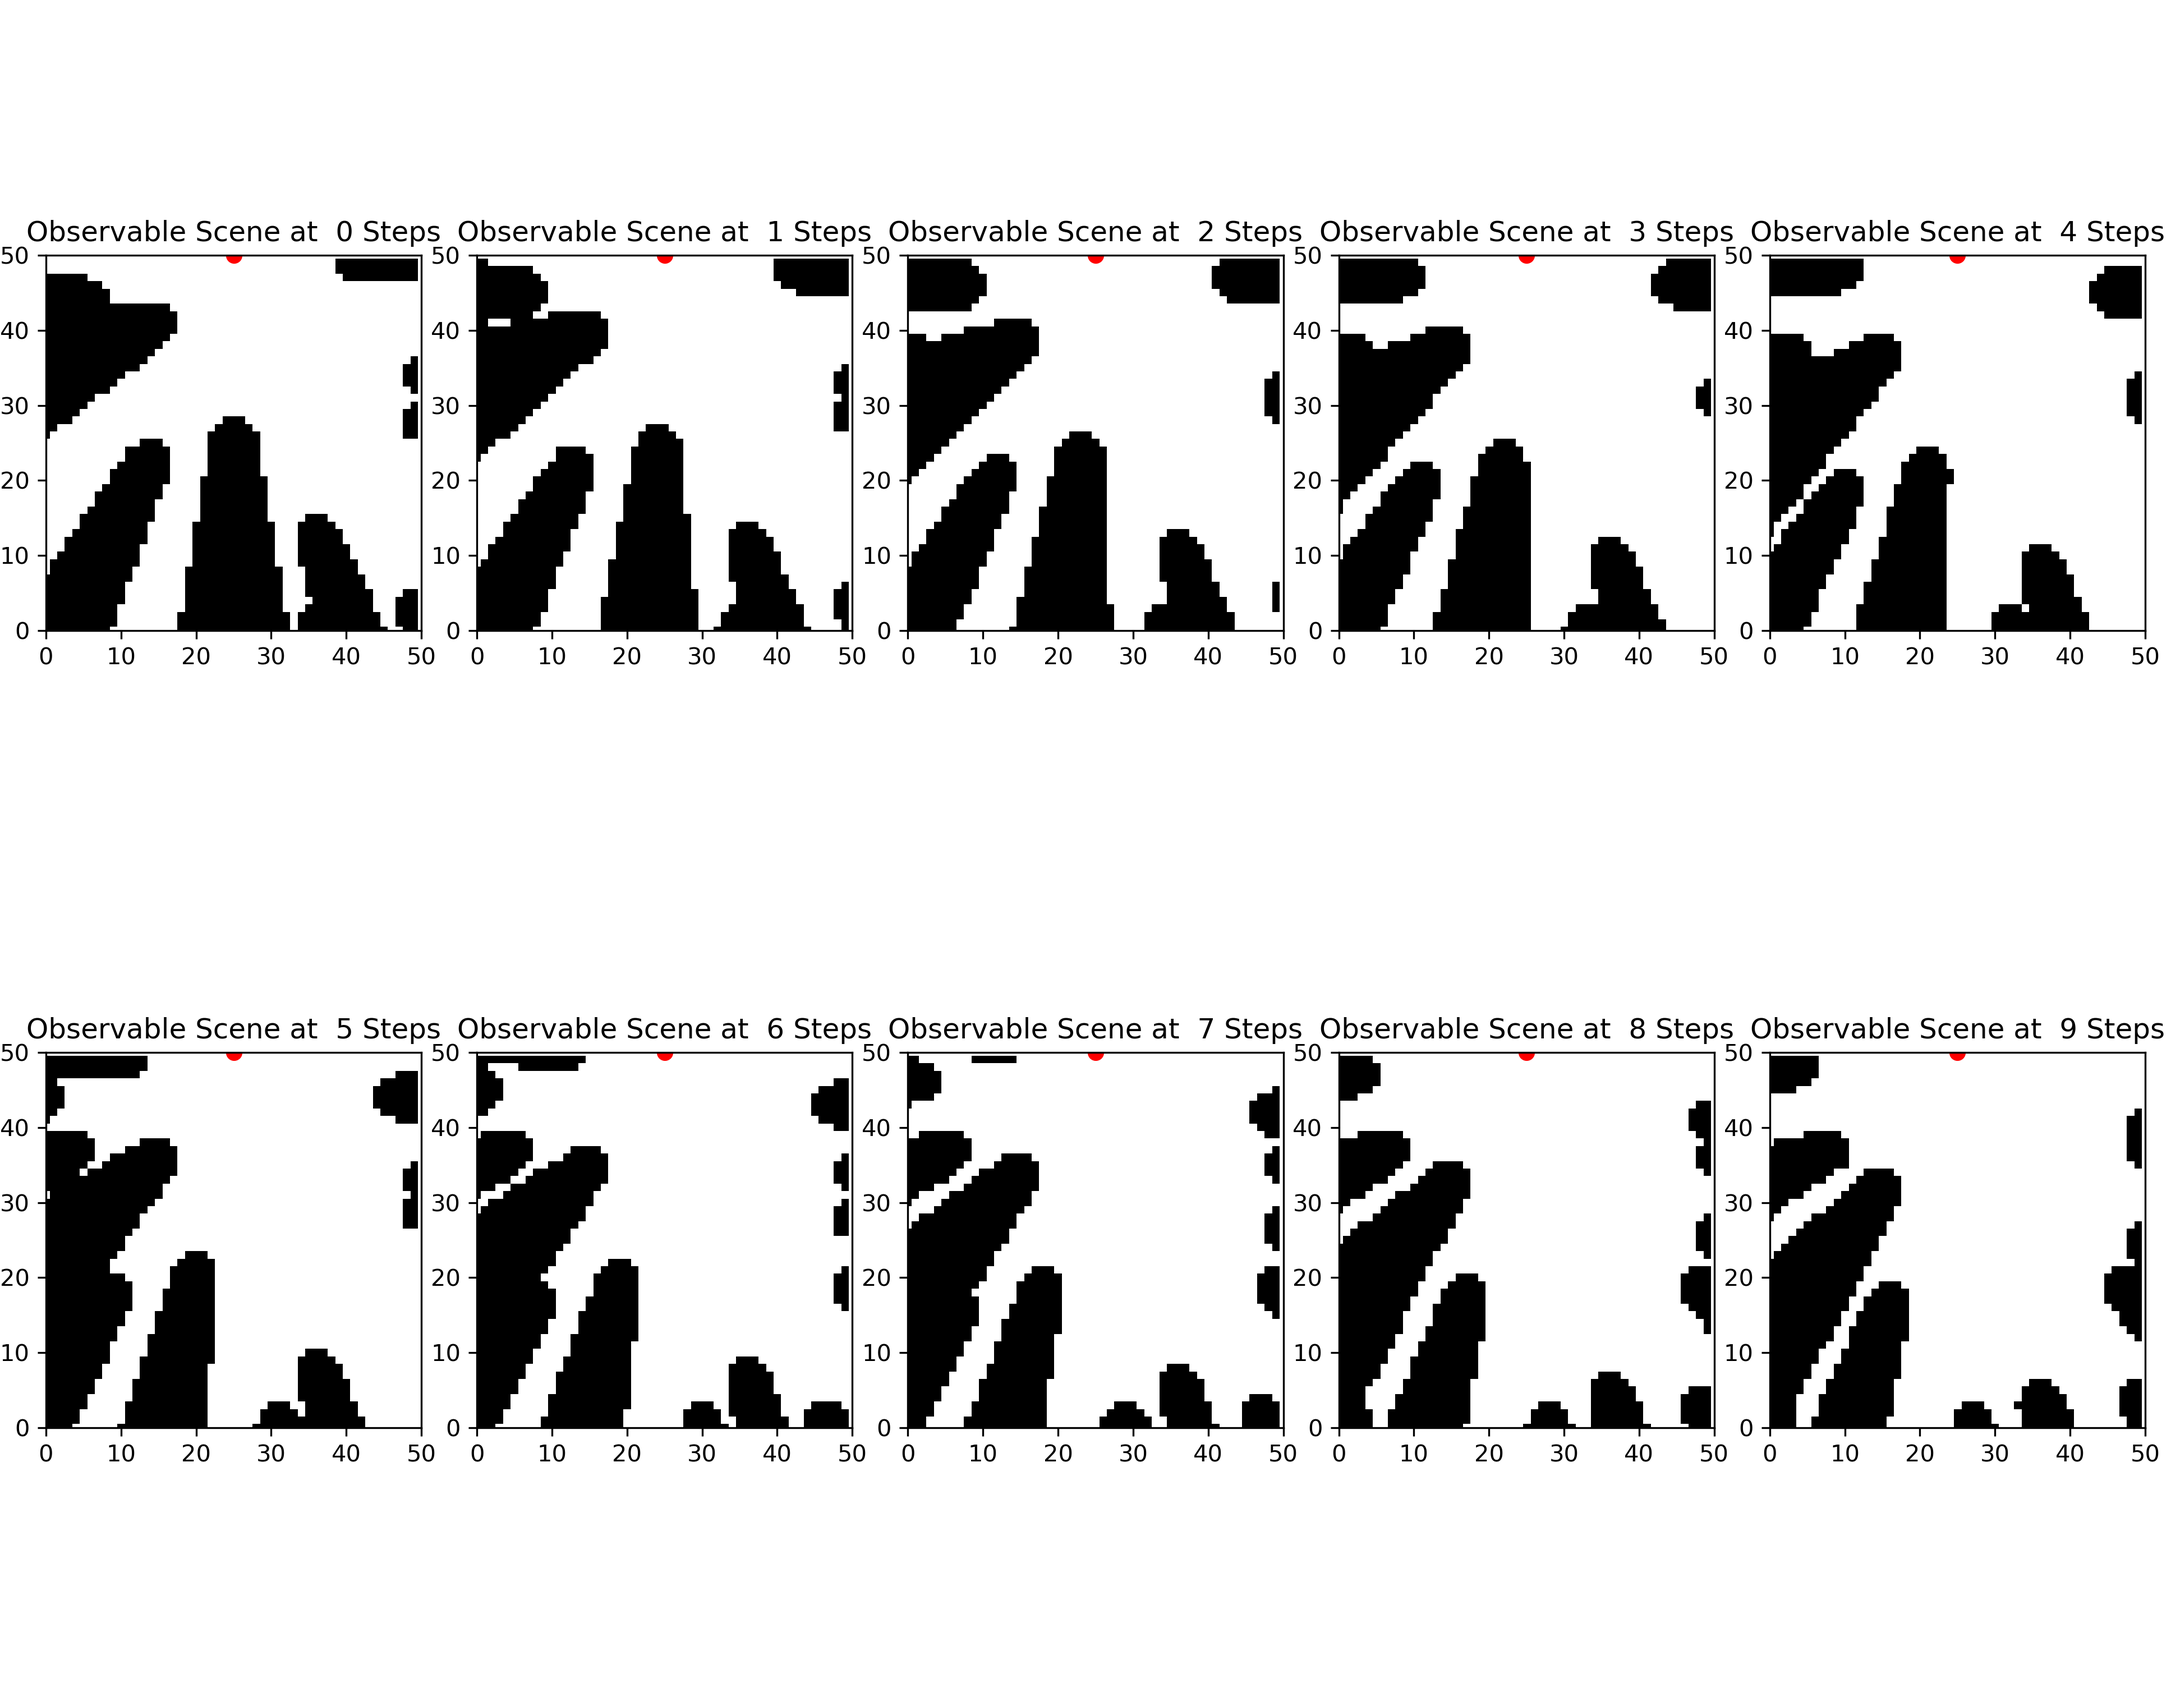
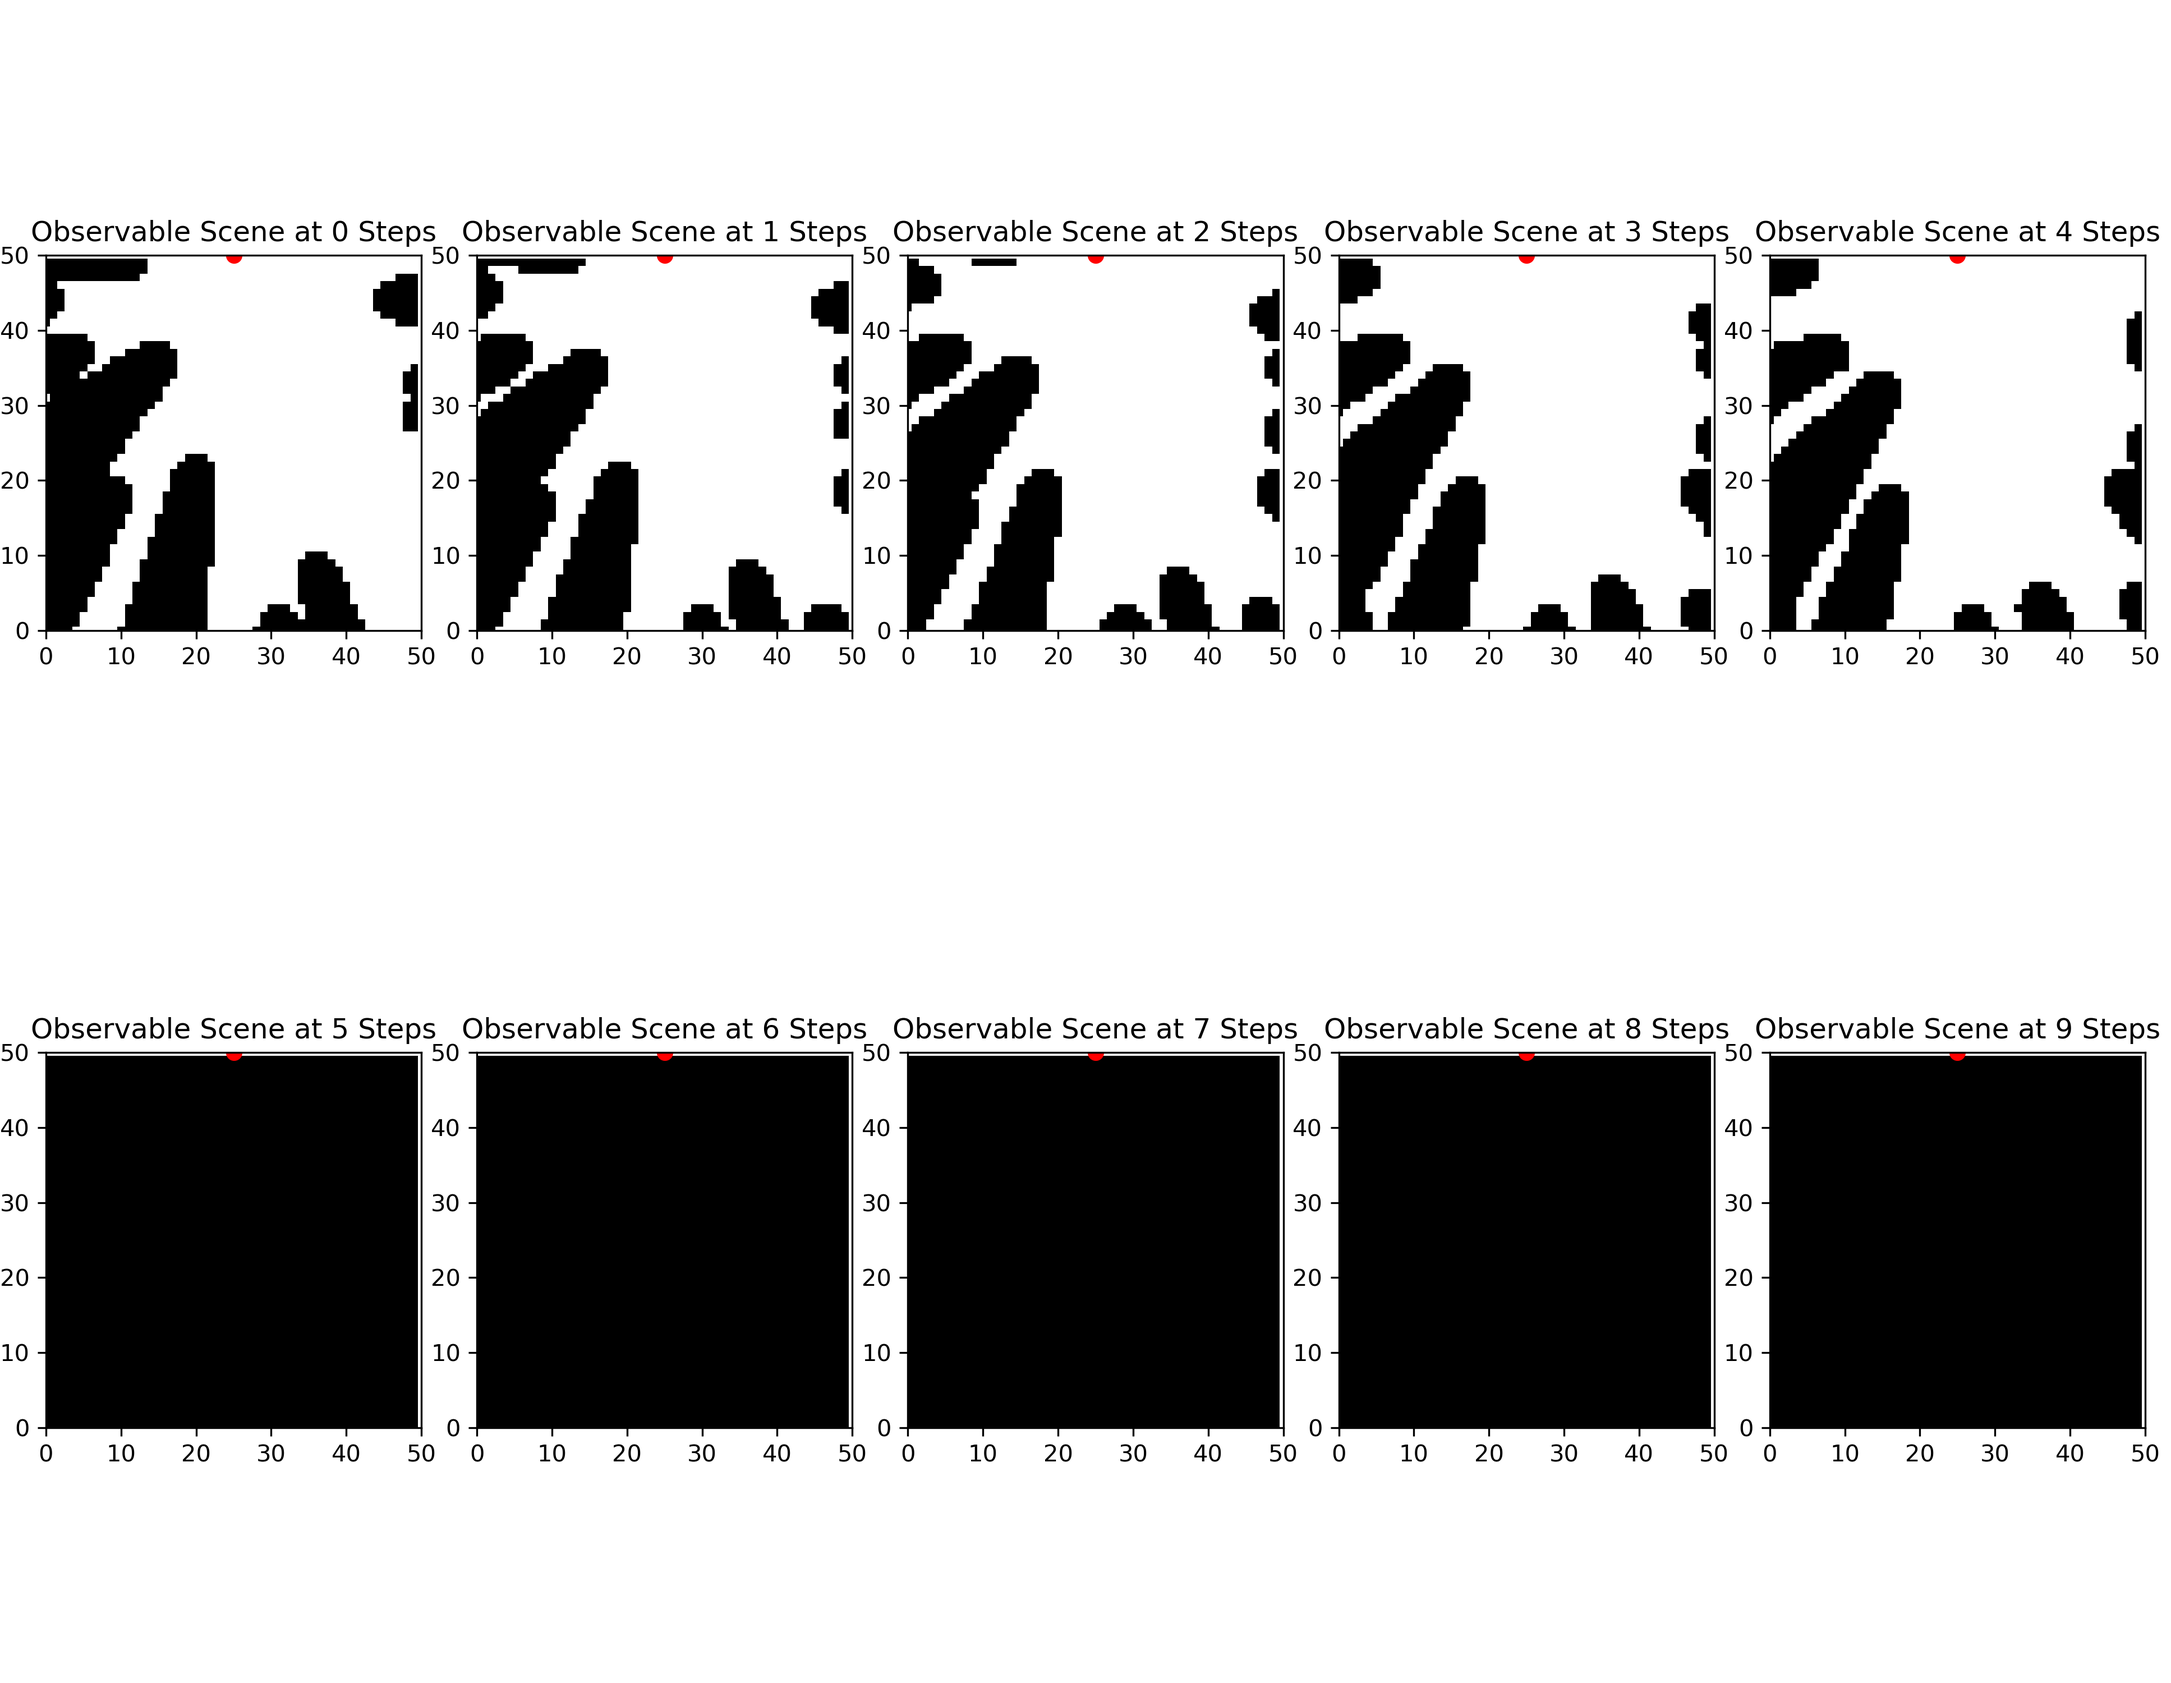
Publish

Changed region(s): [[0.0, 0.589, 0.9922, 0.868], [0.0, 0.124, 0.9922, 0.372]]

diff --git a/visual_main.py b/visual_main.py
@@ -37,7 +37,7 @@ def main(argv):
         if FLAGS.option == 'img':
             for j in range(0, 100, 20):
                 visual_multiple_samples(
-                    inputs[0, j:j+10, :, :, :], title='Observable Scene at ', dim=1, img_path='results/imgs/sensor_data.png')
+                    inputs[0, j+5:j+15, :, :, :], title='Observable Scene at', dim=1, img_path='results/imgs/sensor_data.png')
         elif FLAGS.option == 'anim':
             animate_images(targets[0], 'results/imgs/sensor_data.mp4')
         break
